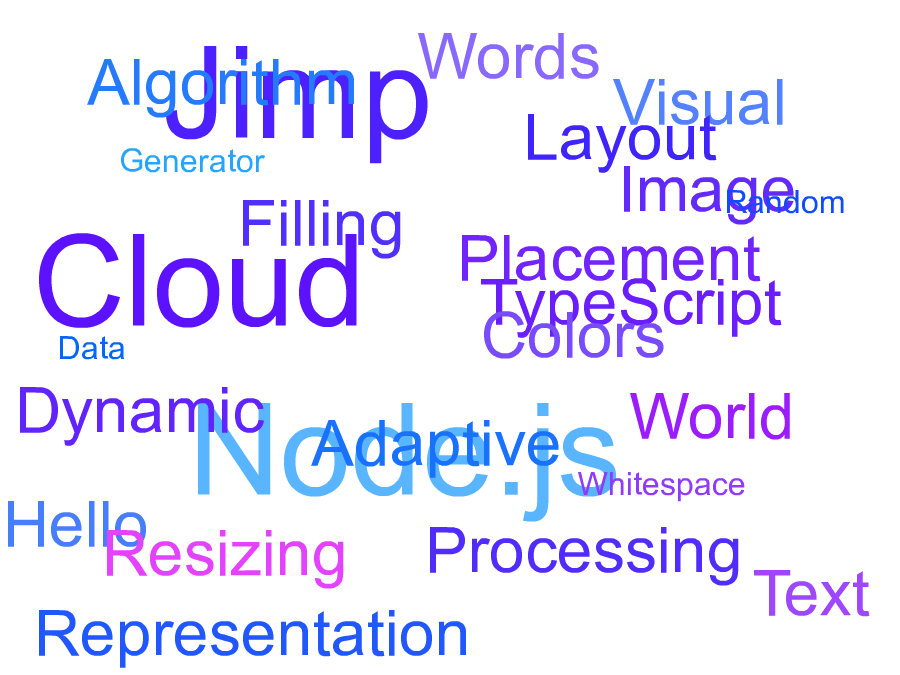
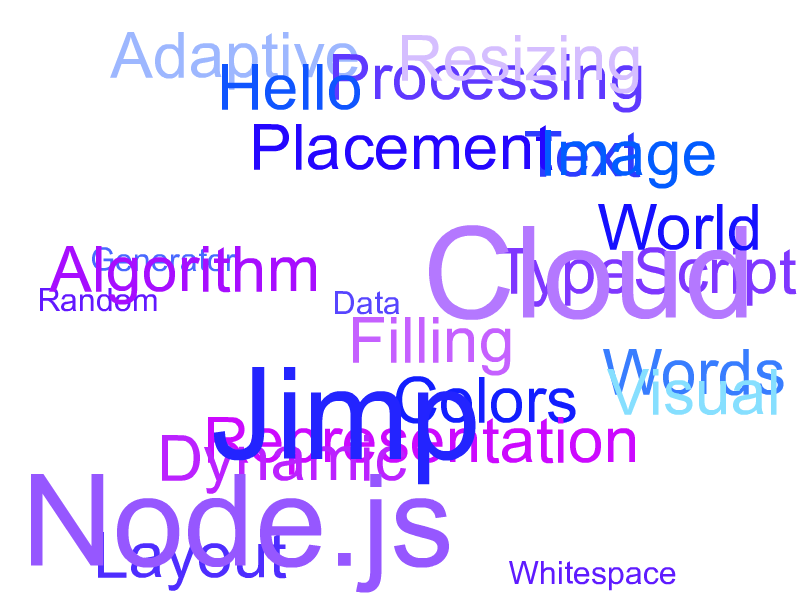
made changes

diff --git a/src/index.ts b/src/index.ts
@@ -1,13 +1,9 @@
 import Jimp from "jimp";
 
-// Initialize image
-let width = 800;
-let height = 600;
+// Initialize image with fixed size
+const width = 800;
+const height = 600;
 let image: Jimp;
-
-// Grid to track occupied spaces
-let gridSize = 10; // Size of each grid cell
-let grid: boolean[][];
 
 // Array to store added words
 const addedWords: Array<{
@@ -65,75 +61,10 @@ async function getFontForSize(fontSize: number): Promise<any> {
   return await Jimp.loadFont(Jimp.FONT_SANS_128_BLACK);
 }
 
-// Function to initialize or resize the grid
-function initializeGrid() {
-  grid = Array(Math.ceil(height / gridSize))
-    .fill(null)
-    .map(() => Array(Math.ceil(width / gridSize)).fill(false));
-}
-
-// Function to check if a space is available
-function isSpaceAvailable(x: number, y: number, w: number, h: number): boolean {
-  const startX = Math.floor(x / gridSize);
-  const startY = Math.floor(y / gridSize);
-  const endX = Math.ceil((x + w) / gridSize);
-  const endY = Math.ceil((y + h) / gridSize);
-
-  for (let i = startY; i < endY; i++) {
-    for (let j = startX; j < endX; j++) {
-      if (i >= grid.length || j >= grid[0].length || grid[i][j]) {
-        return false;
-      }
-    }
-  }
-  return true;
-}
-
-// Function to mark space as occupied
-function occupySpace(x: number, y: number, w: number, h: number): void {
-  const startX = Math.floor(x / gridSize);
-  const startY = Math.floor(y / gridSize);
-  const endX = Math.ceil((x + w) / gridSize);
-  const endY = Math.ceil((y + h) / gridSize);
-
-  for (let i = startY; i < endY; i++) {
-    for (let j = startX; j < endX; j++) {
-      if (i < grid.length && j < grid[0].length) {
-        grid[i][j] = true;
-      }
-    }
-  }
-}
-
-// Function to find available space for a word
-function findSpace(w: number, h: number): [number, number] | null {
-  const attempts = 1000; // Number of attempts to find space
-  for (let i = 0; i < attempts; i++) {
-    const x = Math.floor(Math.random() * (width - w));
-    const y = Math.floor(Math.random() * (height - h));
-    if (isSpaceAvailable(x, y, w, h)) {
-      return [x, y];
-    }
-  }
-  return null; // Couldn't find space
-}
-
-// Function to resize the image
-async function resizeImage() {
-  width += 100;
-  height += 75;
-  const newImage = new Jimp(width, height, 0xffffffff);
-  newImage.composite(image, 0, 0);
-  image = newImage;
-  initializeGrid();
-  console.log(`Resized image to ${width}x${height}`);
-}
-
 // Function to add a word to the image
 async function addWord(word: string, fontSize: number) {
   if (!image) {
     image = new Jimp(width, height, 0xffffffff);
-    initializeGrid();
   }
 
   const color = getRandomColor();
@@ -142,15 +73,9 @@ async function addWord(word: string, fontSize: number) {
   const textWidth = Jimp.measureText(font, word);
   const textHeight = Jimp.measureTextHeight(font, word, width);
 
-  let space = findSpace(textWidth, textHeight);
-
-  // If no space found, resize the image and try again
-  while (!space) {
-    await resizeImage();
-    space = findSpace(textWidth, textHeight);
-  }
-
-  const [x, y] = space;
+  // Find a random position for the word
+  const x = Math.floor(Math.random() * (width - textWidth));
+  const y = Math.floor(Math.random() * (height - textHeight));
 
   const textImage = new Jimp(textWidth, textHeight);
   textImage.print(
@@ -178,8 +103,6 @@ async function addWord(word: string, fontSize: number) {
     opacitySource: 1,
     opacityDest: 1,
   });
-
-  occupySpace(x, y, textWidth, textHeight);
 
   addedWords.push({ word, fontSize, color, x, y });
 
@@ -219,8 +142,8 @@ async function main() {
     { word: "Layout", size: 56 },
   ];
 
-  // Sort words by size (largest first) to prioritize placing larger words
-  words.sort((a, b) => b.size - a.size);
+  // Shuffle the words array to randomize placement
+  words.sort(() => Math.random() - 0.5);
 
   for (const { word, size } of words) {
     await addWord(word, size);
